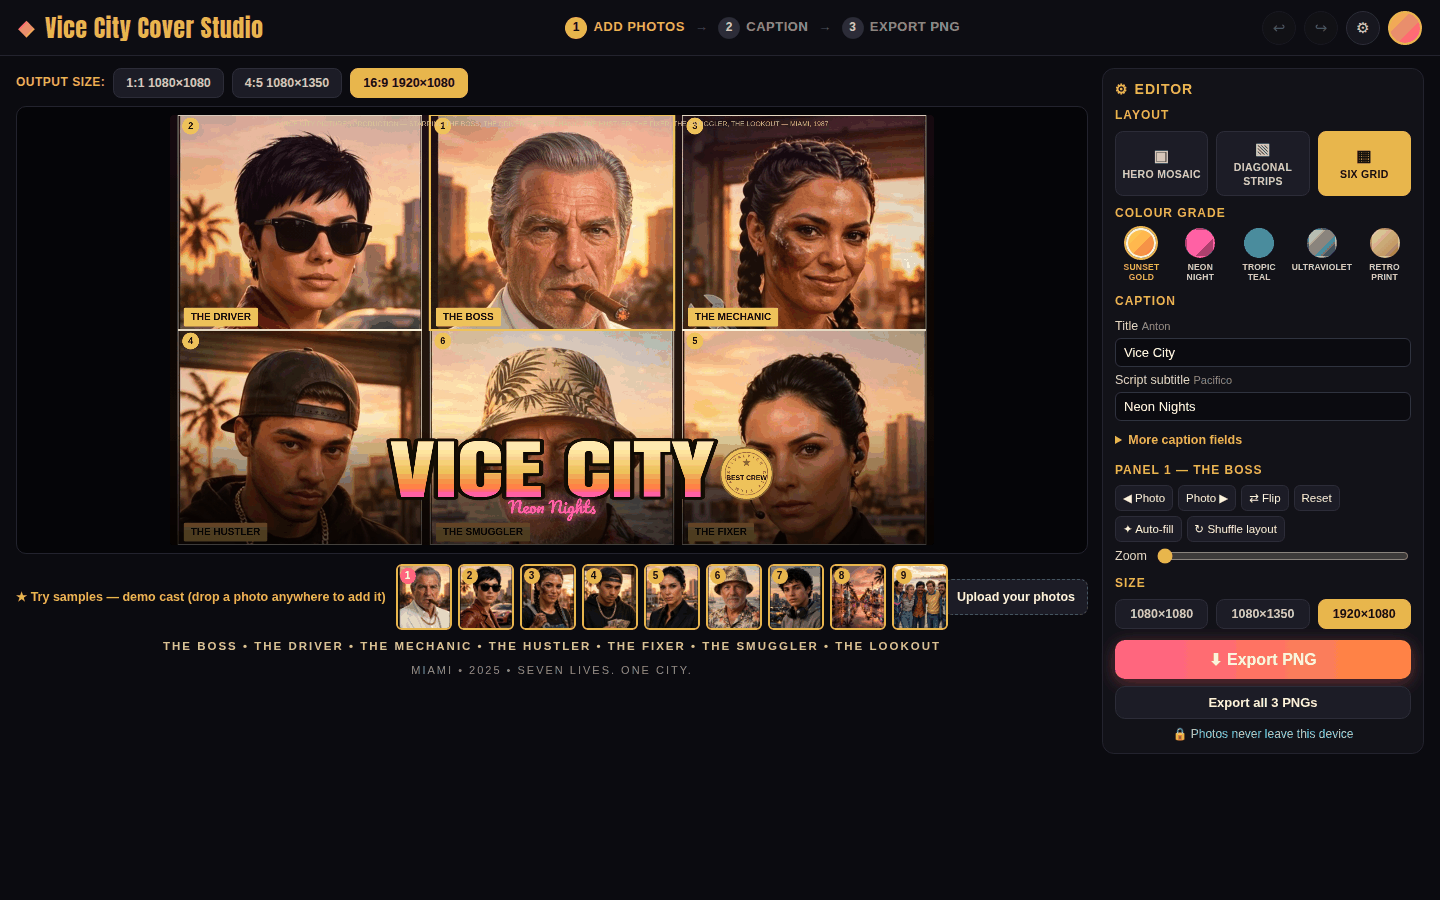
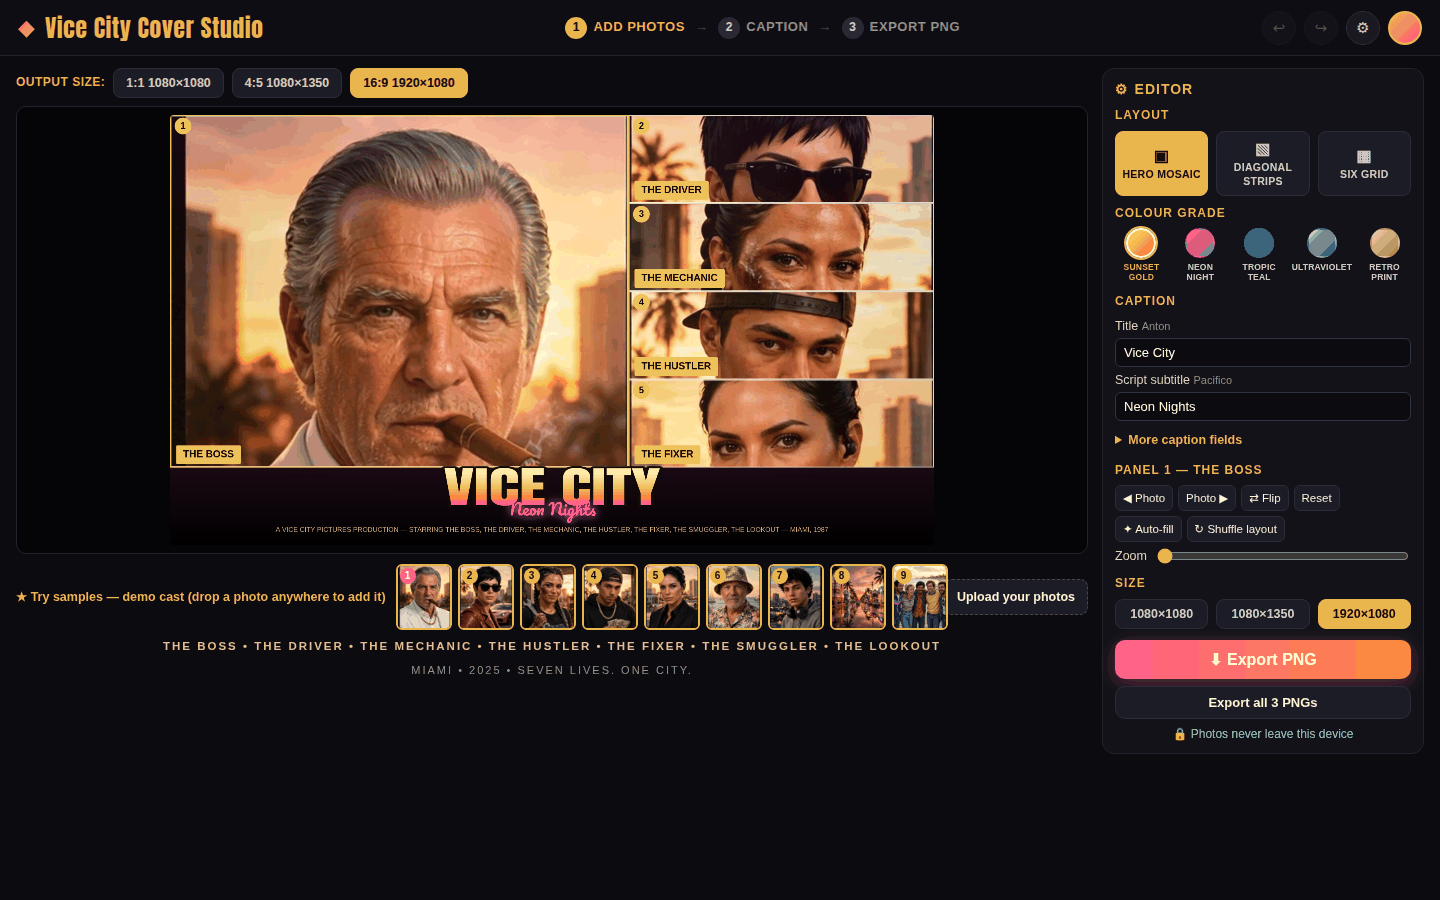
Title in bottom strip below panels (never covers a face), no seal, credit inside strip, panels edge-to-edge, Hero Mosaic 1 large + 4 small, portrait 2x3, Hero Mosaic default; 3 screenshots

diff --git a/app/src/cover.js b/app/src/cover.js
@@ -15,7 +15,7 @@ export const COVER_SIZES = {
 };
 
 export const LAYOUTS = {
-  'hero-mosaic': { name: 'Hero Mosaic', cells: 7 },
+  'hero-mosaic': { name: 'Hero Mosaic', cells: 5 },
   'diagonal-strips': { name: 'Diagonal Strips', cells: 7 },
   'six-grid': { name: 'Six Grid', cells: 6 },
 };
@@ -79,54 +79,61 @@ const CREAM = '#f2ede3';
 // between the rows (hero, six-grid) or across the strips' middles
 // (diagonal), always clear of the panels' face zones.
 function layoutGeometry(layout, W, H) {
-  // Panels fill the whole canvas (no black bands above or below); the
-  // title sits at the bottom over a dark gradient strip.
-  const topRowY = 0, stripTop = 0;
+  // The canvas is panels + a bottom title strip, nothing else. Panels fill
+  // 0 to 0.82H edge to edge; the strip is the bottom 18% (0.82H to 1.0H),
+  // where the title and credit live, never over a face.
+  const PANEL_BOT = 0.82;
+  const TITLE_TOP = 0.835;
   if (layout === 'six-grid') {
+    // Portrait canvases (H > W) use 2 columns x 3 rows so no face is cut
+    // by the title or an edge; landscape stays 3x2.
+    if (H > W) {
+      const panels = [];
+      for (let r = 0; r < 3; r++) {
+        for (let c = 0; c < 2; c++) {
+          panels.push({ x: c * 0.5 * W, y: r * (PANEL_BOT / 3) * H, w: 0.5 * W, h: (PANEL_BOT / 3) * H, rot: 0, slant: 0, slot: r * 2 + c });
+        }
+      }
+      return { panels, titleTop: TITLE_TOP, bandTop: PANEL_BOT };
+    }
     return {
-      panels: gridPanels(W, H, 0, 0.50, 0.50, 0.50, [1, 0, 2], [3, 5, 4]),
-      titleTop: 0.78, bandTop: 1.0,
+      panels: gridPanels(W, H, 0, PANEL_BOT / 2, PANEL_BOT / 2, PANEL_BOT / 2, [1, 0, 2], [3, 5, 4]),
+      titleTop: TITLE_TOP, bandTop: PANEL_BOT,
     };
   }
   if (layout === 'diagonal-strips') {
     return {
-      panels: stripPanels(W, H, stripTop, 1.0),
-      titleTop: 0.78, bandTop: 1.0,
+      panels: stripPanels(W, H, 0, PANEL_BOT),
+      titleTop: TITLE_TOP, bandTop: PANEL_BOT,
     };
   }
-  // hero-mosaic (default): Boss hero centre-top, six around.
-  const unit = 0.95 / 4.4;
-  const widths = [unit, unit, unit * 1.4, unit];
-  const top = [];
-  let x = 0.01;
-  const slotOrder = [1, 2, 0, 3]; // Driver, Mechanic, Boss, Hustler
-  widths.forEach((w, i) => {
-    top.push({ x: x * W, y: topRowY * H, w: w * W, h: 0.50 * H, rot: i === 2 ? -0.02 : 0, slant: 0, slot: slotOrder[i] });
-    x += w + 0.01;
-  });
-  const bottom = [
-    { x: 0.01 * W, y: 0.50 * H, w: 0.32 * W, h: 0.50 * H, rot: 0, slant: 0, slot: 4 },
-    { x: 0.34 * W, y: 0.50 * H, w: 0.32 * W, h: 0.50 * H, rot: 0, slant: 0, slot: 5 },
-    { x: 0.67 * W, y: 0.50 * H, w: 0.32 * W, h: 0.50 * H, rot: 0, slant: 0, slot: 6 },
-  ];
-  return { panels: [...top, ...bottom], titleTop: 0.78, bandTop: 1.0 };
+  // hero-mosaic (default): one large panel on the left (60% width, the
+  // Boss) + 4 small panels stacked on the right.
+  const panels = [{ x: 0, y: 0, w: 0.60 * W, h: PANEL_BOT * H, rot: 0, slant: 0, slot: 0 }];
+  const smallH = (PANEL_BOT / 4) * H;
+  for (let i = 0; i < 4; i++) {
+    panels.push({ x: 0.60 * W, y: i * smallH, w: 0.40 * W, h: smallH, rot: 0, slant: 0, slot: i + 1 });
+  }
+  return { panels, titleTop: TITLE_TOP, bandTop: PANEL_BOT };
 }
 
 // Three-by-two grid; topSlots/bottomSlots name the slot index per cell.
+// Edge to edge: panels start at x=0 and end at x=W.
 function gridPanels(W, H, topY, topH, botY, botH, topSlots, botSlots) {
   const out = [];
-  const xs = [0.01, 0.34, 0.67], w = 0.32;
+  const xs = [0, 0.335, 0.67], w = 0.33;
   topSlots.forEach((slot, i) => out.push({ x: xs[i] * W, y: topY * H, w: w * W, h: topH * H, rot: 0, slant: 0, slot }));
   botSlots.forEach((slot, i) => out.push({ x: xs[i] * W, y: botY * H, w: w * W, h: botH * H, rot: 0, slant: 0, slot }));
   return out;
 }
 
 // Seven slanted full-height strips; the Boss strip (index 3) is 1.5 wide.
+// Edge to edge: strips start at x=0 and end at x=W.
 function stripPanels(W, H, topY, botY) {
-  const unit = 0.98 / 7.5;
+  const unit = 1.0 / 7.5;
   const widths = [1, 1, 1, 1.5, 1, 1, 1];
   const out = [];
-  let x = 0.01;
+  let x = 0;
   widths.forEach((u, i) => {
     out.push({ x: x * W, y: topY * H, w: u * unit * W, h: (botY - topY) * H, rot: 0, slant: 0.03 * W, slot: i });
     x += u * unit;
@@ -193,9 +200,10 @@ function drawPhotoInto(ctx, img, dx, dy, dw, dh, slot, face, grade) {
   ctx.filter = 'none';
 }
 
-/** Fits the title: Anton at 0.15H, stretched up to 1.5x to fill 0.88W. */
+/** Fits the title: Anton at 0.10H, stretched up to 1.5x to fill 0.88W.
+    The title lives in the bottom strip (18% of H), so it must be compact. */
 function fitTitle(ctx, text, W, H) {
-  let size = Math.round(0.15 * H);
+  let size = Math.round(0.10 * H);
   ctx.font = `${size}px Anton, 'Arial Black', sans-serif`;
   const measured = ctx.measureText(text.toUpperCase()).width || 1;
   const target = 0.88 * W;
@@ -443,13 +451,13 @@ export function drawCover(ctx, W, H, state, photos, opts = {}) {
     });
   }
 
-  // Dark gradient strip at the bottom, behind the horizontal title.
-  const dg = ctx.createLinearGradient(0, 0.72 * H, 0, H);
-  dg.addColorStop(0, 'rgba(0,0,0,0)');
-  dg.addColorStop(0.45, 'rgba(0,0,0,0.45)');
-  dg.addColorStop(1, 'rgba(0,0,0,0.70)');
+  // Bottom title strip (the bottom 18%): a dark gradient, full width,
+  // BELOW the panels — the title and credit live here, never over a face.
+  const dg = ctx.createLinearGradient(0, geo.bandTop * H, 0, H);
+  dg.addColorStop(0, 'rgba(26,10,20,0.96)');
+  dg.addColorStop(1, 'rgba(0,0,0,1)');
   ctx.fillStyle = dg;
-  ctx.fillRect(0, 0.72 * H, W, 0.28 * H);
+  ctx.fillRect(0, geo.bandTop * H, W, H - geo.bandTop * H);
 
   // Title: layered Anton — vertical gradient fill, thick dark outline,
   // soft shadow — stretched to fill the width.
@@ -492,8 +500,8 @@ export function drawCover(ctx, W, H, state, photos, opts = {}) {
   ctx.shadowOffsetY = 0;
   ctx.restore();
 
-  // Script subtitle, pink neon.
-  const subY = titleTop + capH + 0.03 * H;
+  // Script subtitle, pink neon, tucked under the title inside the strip.
+  const subY = titleTop + capH + 0.015 * H;
   ctx.save();
   ctx.font = `${Math.round(0.038 * H)}px Pacifico, cursive`;
   ctx.textAlign = 'center';
@@ -504,9 +512,9 @@ export function drawCover(ctx, W, H, state, photos, opts = {}) {
   ctx.fillText(state.subtitle || '', W / 2, subY);
   ctx.restore();
 
-  // Credit line: one small centred line at the very top, clear of the
-  // title, subtitle and panel labels below it (the bottom row's labels sit
-  // at the bottom edge, so the credit cannot live there).
+  // Credit line: one small centred line inside the bottom strip, under
+  // the title and subtitle, on the strip's dark background — never on top
+  // of photos.
   ctx.fillStyle = 'rgba(216,198,144,0.9)';
   ctx.textAlign = 'center';
   ctx.textBaseline = 'middle';
@@ -517,37 +525,8 @@ export function drawCover(ctx, W, H, state, photos, opts = {}) {
   if (creditW > 0.92 * W) {
     ctx.font = `${Math.max(8, Math.round(bfs * (0.92 * W / creditW)))}px Arial, sans-serif`;
   }
-  ctx.fillText(credit, W / 2, 0.022 * H);
+  ctx.fillText(credit, W / 2, 0.965 * H);
 
-  // Gold seal (Neon Night: blue), just right of the title in the title zone —
-  // clear of every face.
-  if (state.showSeal !== false) {
-    const sr = Math.max(26, 0.034 * W);
-    const scx = Math.min(0.96 * W, titleRight + sr + 0.008 * W), scy = titleTop + capH * 0.5;
-    const neon = state.grade === 'neon-night';
-    ctx.save();
-    ctx.beginPath();
-    ctx.arc(scx, scy, sr, 0, Math.PI * 2);
-    ctx.fillStyle = neon ? '#1e6fd9' : GOLD;
-    ctx.fill();
-    ctx.lineWidth = Math.max(2, sr * 0.06);
-    ctx.strokeStyle = neon ? '#7ff7ff' : GOLD_DARK;
-    ctx.stroke();
-    ctx.beginPath();
-    ctx.arc(scx, scy, sr * 0.82, 0, Math.PI * 2);
-    ctx.strokeStyle = neon ? 'rgba(127,247,255,0.8)' : 'rgba(138,106,31,0.8)';
-    ctx.lineWidth = Math.max(1, sr * 0.03);
-    ctx.stroke();
-    ctx.fillStyle = neon ? GOLD : GOLD_DARK;
-    drawStar(ctx, scx, scy - sr * 0.42, sr * 0.16);
-    ctx.fillStyle = neon ? '#ffffff' : '#14100a';
-    ctx.font = `800 ${Math.round(sr * 0.26)}px Arial, sans-serif`;
-    ctx.textAlign = 'center';
-    ctx.textBaseline = 'middle';
-    ctx.fillText((state.seal || 'BEST CREW').toUpperCase(), scx, scy + sr * 0.18);
-    drawArcText(ctx, (state.sealRing || '').toUpperCase(), scx, scy, sr * 0.68, sr * 0.16);
-    ctx.restore();
-  }
   ctx.restore();
 }
 

diff --git a/app/src/shots.js b/app/src/shots.js
@@ -15,7 +15,7 @@ export async function runShot(shot, query, api) {
   const { state, loadSamples, redraw, pushHistory, syncControls } = api;
   await loadSamples();
   const get = (k, d) => query.get(k) ?? d;
-  state.layout = get('layout', 'six-grid');
+  state.layout = get('layout', 'hero-mosaic');
   state.grade = get('grade', 'sunset-gold');
   state.size = get('size', '1920x1080');
   state.title = get('title', 'Vice City');

diff --git a/app/src/main.js b/app/src/main.js
@@ -15,7 +15,7 @@ const photos = new Map(); // id -> {id, name, label, img, faceX, faceY}
 let photoSeq = 0;
 
 const state = {
-  layout: 'six-grid',
+  layout: 'hero-mosaic',
   grade: 'sunset-gold',
   size: '1920x1080',
   title: 'Vice City',
